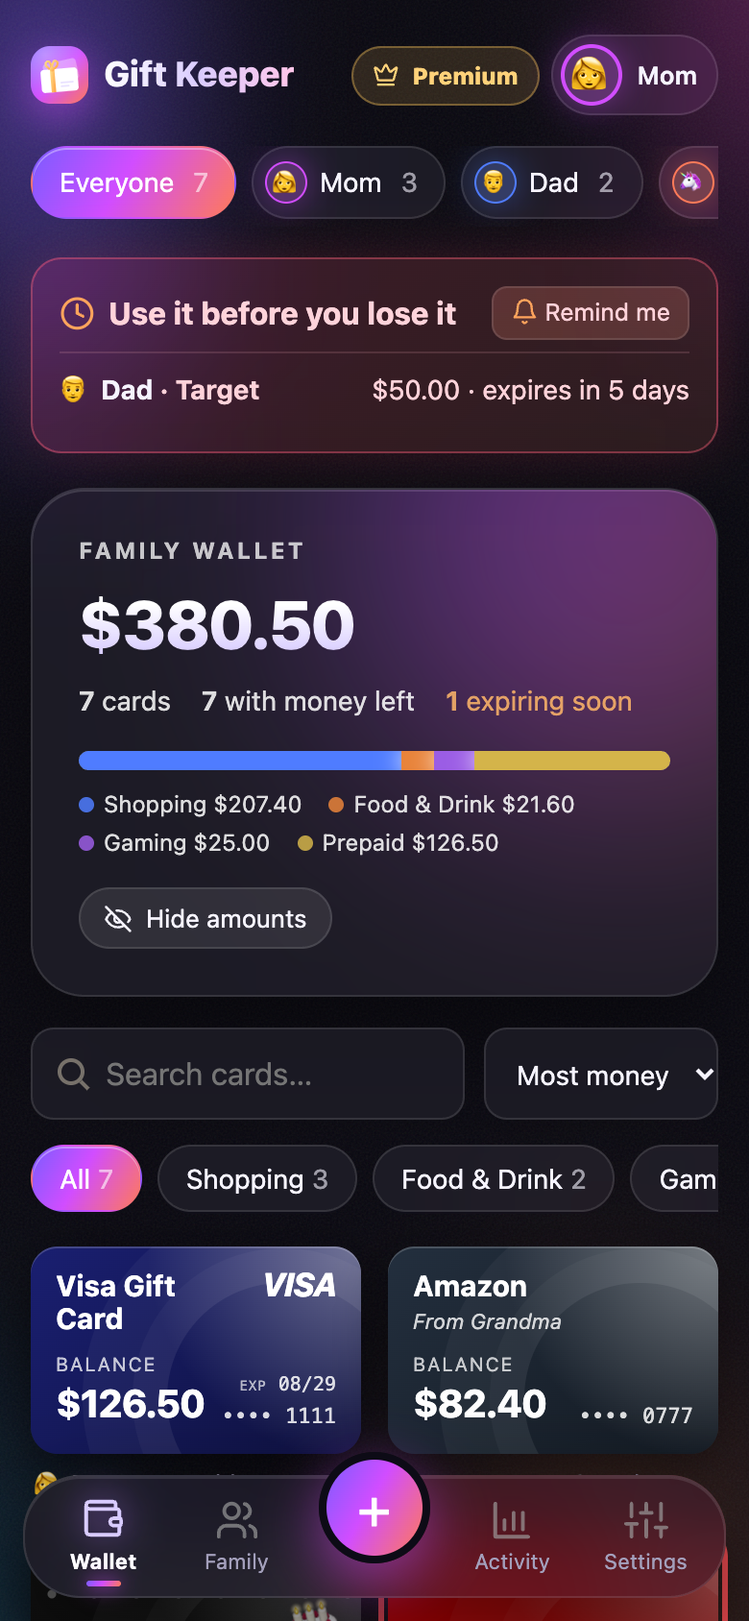
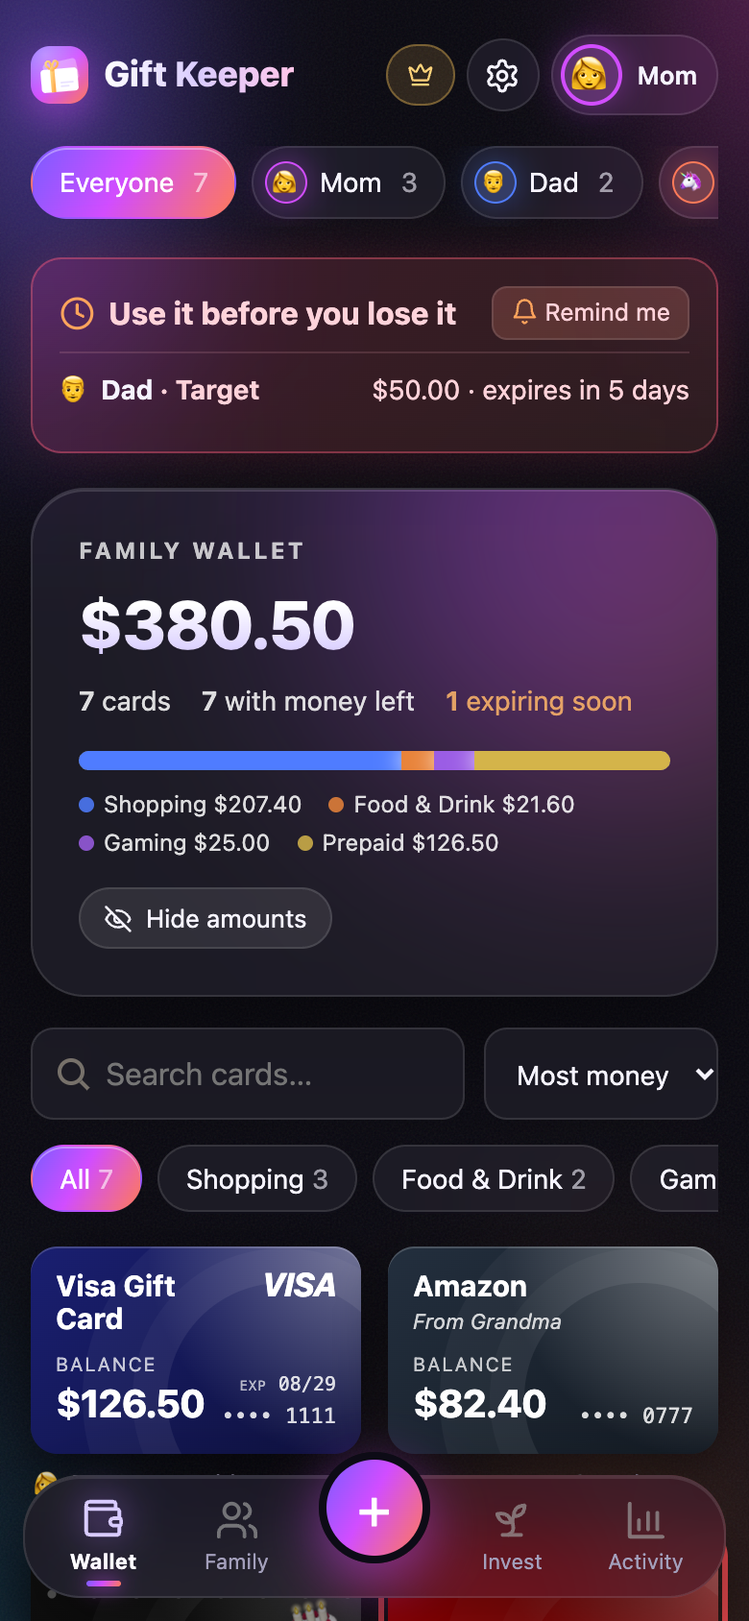
v0.12: Invest page — growth calculator, family money tree, idle cards, lessons; settings moved to header

Changed region(s): [[0.4615, 0.0308, 0.7385, 0.0924], [0.8, 0.9242, 0.9231, 0.9858], [0.6462, 0.9242, 0.7385, 0.9858]]

diff --git a/app.html b/app.html
@@ -893,6 +893,41 @@
   .tdot.gc { width: 14px; height: 14px; aspect-ratio: auto; padding: 0; border-radius: 4px; display: inline-block; box-shadow: inset 0 0 0 1px rgba(255,255,255,.25); }
   .tdot.gc::before, .tdot.gc::after { display: none; }
 
+  /* Invest page */
+  .gear-btn { width: 38px; height: 38px; border-radius: 50%; border: 1px solid var(--line); background: var(--surface); color: var(--ink);
+    display: grid; place-items: center; cursor: pointer; -webkit-backdrop-filter: var(--glass); backdrop-filter: var(--glass); flex: none; }
+  .gear-btn .i { width: 19px; height: 19px; }
+  .gear-btn.on { background: var(--grad); border-color: transparent; }
+  .invest-hero::after { background: linear-gradient(135deg, #22d3a0, #7c5cff); }
+  .invest-hero .label { text-transform: none; letter-spacing: 0; font-size: 15px; opacity: .85; }
+  .iv-split { display: flex; gap: 18px; flex-wrap: wrap; font-size: 14px; color: var(--muted); }
+  .iv-split b { color: var(--ink); }
+  .iv-split i { display: inline-block; width: 10px; height: 10px; border-radius: 3px; margin-right: 6px; }
+  .dot-put { background: #7c5cff; }
+  .dot-grow { background: #34e3a6; box-shadow: 0 0 10px #34e3a6; }
+  #ivChart svg { display: block; width: 100%; height: auto; margin-top: 14px; overflow: visible; }
+  #ivChart text { fill: var(--muted); font-size: 11px; font-family: inherit; }
+  .iv-form { padding: 6px 16px 14px; }
+  .iv-form input[type=range] { width: 100%; accent-color: #b07cff; margin: 6px 0 2px; }
+  .iv-form .seg button { font-size: 13px; padding: 9px 4px; }
+  .tree-row { display: flex; align-items: center; gap: 12px; padding: 12px 0; border-bottom: 1px solid var(--line); }
+  .tree-row:last-child { border-bottom: 0; }
+  .tree-row .info { flex: 1; min-width: 0; }
+  .tree-row .t { font-weight: 650; }
+  .tree-row .s { font-size: 13px; color: var(--muted); }
+  .tree-row .grow { text-align: right; font-weight: 800; font-family: var(--round); color: #4ef0b0; }
+  .tree-row .grow small { display: block; font-size: 11.5px; font-weight: 600; color: var(--muted); font-family: inherit; }
+  .faq-list { display: grid; gap: 8px; }
+  details.learn { border: 1px solid var(--line); background: var(--surface); border-radius: 16px; padding: 14px 16px; }
+  details.learn summary { cursor: pointer; font-weight: 650; list-style: none; display: flex; justify-content: space-between; gap: 10px; }
+  details.learn summary::after { content: "+"; color: var(--muted); font-size: 20px; line-height: 1; transition: rotate .2s; }
+  details.learn[open] summary::after { rotate: 45deg; }
+  details.learn p { color: var(--muted); margin: 10px 0 0; font-size: 14.5px; line-height: 1.55; }
+  .iv-note { font-size: 12.5px; color: var(--muted); text-align: center; margin: 18px 6px 0; line-height: 1.5; }
+  .pro-btn .pl { margin-left: 0; }
+  @media (max-width: 420px) { .pro-btn .pl { display: none; } .pro-btn { padding: 8px 10px; } }
+  body.privacy #ivTotal, body.privacy .iv-split b, body.privacy .tree-row .grow { filter: blur(9px); }
+
   /* Fixes kept from the redesign */
   .mini { white-space: nowrap; }
   .pm-buttons .btn:disabled { opacity: .55; }
@@ -906,7 +941,7 @@
 </style>
 </head>
 <body>
-<svg width="0" height="0" style="position:absolute" aria-hidden="true"><symbol id="i-wallet" viewBox="0 0 24 24"><path d="M19 7V4a1 1 0 0 0-1-1H5a2 2 0 0 0 0 4h15a1 1 0 0 1 1 1v4h-3a2 2 0 0 0 0 4h3a1 1 0 0 0 1-1v-2a1 1 0 0 0-1-1"/><path d="M3 5v14a2 2 0 0 0 2 2h15a1 1 0 0 0 1-1v-4"/></symbol><symbol id="i-users" viewBox="0 0 24 24"><path d="M16 21v-2a4 4 0 0 0-4-4H6a4 4 0 0 0-4 4v2"/><circle cx="9" cy="7" r="4"/><path d="M22 21v-2a4 4 0 0 0-3-3.87"/><path d="M16 3.13a4 4 0 0 1 0 7.75"/></symbol><symbol id="i-chart" viewBox="0 0 24 24"><path d="M3 3v18h18"/><path d="M8 17v-5"/><path d="M13 17V8"/><path d="M18 17v-9"/></symbol><symbol id="i-settings" viewBox="0 0 24 24"><path d="M4 21v-7M4 10V3M12 21v-9M12 8V3M20 21v-5M20 12V3M1 14h6M9 8h6M17 16h6"/></symbol><symbol id="i-plus" viewBox="0 0 24 24"><path d="M12 5v14M5 12h14"/></symbol><symbol id="i-x" viewBox="0 0 24 24"><path d="M18 6 6 18M6 6l12 12"/></symbol><symbol id="i-check" viewBox="0 0 24 24"><path d="M20 6 9 17l-5-5"/></symbol><symbol id="i-camera" viewBox="0 0 24 24"><path d="M14.5 4h-5L7 7H4a2 2 0 0 0-2 2v9a2 2 0 0 0 2 2h16a2 2 0 0 0 2-2V9a2 2 0 0 0-2-2h-3l-2.5-3z"/><circle cx="12" cy="13" r="3"/></symbol><symbol id="i-keyboard" viewBox="0 0 24 24"><rect x="2" y="6" width="20" height="12" rx="2"/><path d="M6 10h.01M10 10h.01M14 10h.01M18 10h.01M7 14h10"/></symbol><symbol id="i-crown" viewBox="0 0 24 24"><path d="M11.56 3.27a.5.5 0 0 1 .88 0l2.95 5.6a1 1 0 0 0 1.52.3l4.27-3.67a.5.5 0 0 1 .8.52l-2.83 10.25a1 1 0 0 1-.96.73H5.81a1 1 0 0 1-.96-.73L2.02 6.02a.5.5 0 0 1 .8-.52l4.27 3.67a1 1 0 0 0 1.52-.3z"/><path d="M5 21h14"/></symbol><symbol id="i-gem" viewBox="0 0 24 24"><path d="M6 3h12l4 6-10 13L2 9Z"/><path d="M11 3 8 9l4 13 4-13-3-6"/><path d="M2 9h20"/></symbol><symbol id="i-gift" viewBox="0 0 24 24"><rect x="3" y="8" width="18" height="4" rx="1"/><path d="M12 8v13"/><path d="M19 12v7a2 2 0 0 1-2 2H7a2 2 0 0 1-2-2v-7"/><path d="M7.5 8a2.5 2.5 0 0 1 0-5C10 3 12 8 12 8s2-5 4.5-5a2.5 2.5 0 0 1 0 5"/></symbol><symbol id="i-clock" viewBox="0 0 24 24"><circle cx="12" cy="12" r="10"/><path d="M12 6v6l4 2"/></symbol><symbol id="i-bell" viewBox="0 0 24 24"><path d="M6 8a6 6 0 0 1 12 0c0 7 3 9 3 9H3s3-2 3-9"/><path d="M10.3 21a1.94 1.94 0 0 0 3.4 0"/></symbol><symbol id="i-eye" viewBox="0 0 24 24"><path d="M2 12s3-7 10-7 10 7 10 7-3 7-10 7-10-7-10-7Z"/><circle cx="12" cy="12" r="3"/></symbol><symbol id="i-eye-off" viewBox="0 0 24 24"><path d="M9.88 9.88a3 3 0 1 0 4.24 4.24"/><path d="M10.73 5.08A10.4 10.4 0 0 1 12 5c7 0 10 7 10 7a13.2 13.2 0 0 1-1.67 2.68"/><path d="M6.61 6.61A13.5 13.5 0 0 0 2 12s3 7 10 7a9.7 9.7 0 0 0 5.39-1.61"/><path d="m2 2 20 20"/></symbol><symbol id="i-lock" viewBox="0 0 24 24"><rect x="3" y="11" width="18" height="11" rx="2"/><path d="M7 11V7a5 5 0 0 1 10 0v4"/></symbol><symbol id="i-sparkles" viewBox="0 0 24 24"><path d="M12 3l1.9 5.1L19 10l-5.1 1.9L12 17l-1.9-5.1L5 10l5.1-1.9z"/><path d="M19 15l.8 2.2L22 18l-2.2.8L19 21l-.8-2.2L16 18l2.2-.8z"/></symbol><symbol id="i-target" viewBox="0 0 24 24"><circle cx="12" cy="12" r="10"/><circle cx="12" cy="12" r="6"/><circle cx="12" cy="12" r="2"/></symbol><symbol id="i-table" viewBox="0 0 24 24"><rect x="3" y="3" width="18" height="18" rx="2"/><path d="M3 9h18M3 15h18M9 3v18"/></symbol><symbol id="i-download" viewBox="0 0 24 24"><path d="M21 15v4a2 2 0 0 1-2 2H5a2 2 0 0 1-2-2v-4"/><path d="m7 10 5 5 5-5"/><path d="M12 15V3"/></symbol><symbol id="i-upload" viewBox="0 0 24 24"><path d="M21 15v4a2 2 0 0 1-2 2H5a2 2 0 0 1-2-2v-4"/><path d="m17 8-5-5-5 5"/><path d="M12 3v12"/></symbol><symbol id="i-trash" viewBox="0 0 24 24"><path d="M3 6h18"/><path d="M19 6v14a2 2 0 0 1-2 2H7a2 2 0 0 1-2-2V6"/><path d="M8 6V4a2 2 0 0 1 2-2h4a2 2 0 0 1 2 2v2"/></symbol><symbol id="i-pencil" viewBox="0 0 24 24"><path d="M17 3a2.85 2.85 0 1 1 4 4L7.5 20.5 2 22l1.5-5.5Z"/></symbol><symbol id="i-scan" viewBox="0 0 24 24"><path d="M3 7V5a2 2 0 0 1 2-2h2M17 3h2a2 2 0 0 1 2 2v2M21 17v2a2 2 0 0 1-2 2h-2M7 21H5a2 2 0 0 1-2-2v-2"/><path d="M7 8v8M10 8v8M14 8v8M17 8v8"/></symbol><symbol id="i-calendar" viewBox="0 0 24 24"><rect x="3" y="4" width="18" height="18" rx="2"/><path d="M16 2v4M8 2v4M3 10h18"/></symbol><symbol id="i-alert" viewBox="0 0 24 24"><path d="m21.73 18-8-14a2 2 0 0 0-3.48 0l-8 14A2 2 0 0 0 4 21h16a2 2 0 0 0 1.73-3"/><path d="M12 9v4M12 17h.01"/></symbol><symbol id="i-ban" viewBox="0 0 24 24"><circle cx="12" cy="12" r="10"/><path d="m4.9 4.9 14.2 14.2"/></symbol><symbol id="i-store" viewBox="0 0 24 24"><path d="M3 9l1.5-5h15L21 9"/><path d="M4 9v11h16V9"/><path d="M3 9h18"/><path d="M9 20v-6h6v6"/></symbol><symbol id="i-card" viewBox="0 0 24 24"><rect x="2" y="5" width="20" height="14" rx="2"/><path d="M2 10h20"/></symbol><symbol id="i-shield" viewBox="0 0 24 24"><path d="M12 22s8-4 8-10V5l-8-3-8 3v7c0 6 8 10 8 10z"/></symbol><symbol id="i-coins" viewBox="0 0 24 24"><circle cx="8" cy="8" r="6"/><path d="M18.09 10.37A6 6 0 1 1 10.34 18"/><path d="M7 6h1v4"/></symbol><symbol id="i-hourglass" viewBox="0 0 24 24"><path d="M5 22h14M5 2h14M17 22v-4.17a2 2 0 0 0-.59-1.42L12 12l-4.41 4.41A2 2 0 0 0 7 17.83V22M7 2v4.17a2 2 0 0 0 .59 1.42L12 12l4.41-4.41A2 2 0 0 0 17 6.17V2"/></symbol><symbol id="i-heart" viewBox="0 0 24 24"><path d="M19 14c1.49-1.46 3-3.21 3-5.5A5.5 5.5 0 0 0 16.5 3c-1.76 0-3 .5-4.5 2-1.5-1.5-2.74-2-4.5-2A5.5 5.5 0 0 0 2 8.5c0 2.3 1.5 4.05 3 5.5l7 7Z"/></symbol><symbol id="i-bag" viewBox="0 0 24 24"><path d="M6 2 3 6v14a2 2 0 0 0 2 2h14a2 2 0 0 0 2-2V6l-3-4Z"/><path d="M3 6h18"/><path d="M16 10a4 4 0 0 1-8 0"/></symbol><symbol id="i-trophy" viewBox="0 0 24 24"><path d="M6 9H4.5a2.5 2.5 0 0 1 0-5H6M18 9h1.5a2.5 2.5 0 0 0 0-5H18M4 22h16M10 14.66V17c0 .55-.47.98-.97 1.21C7.85 18.75 7 20.24 7 22M14 14.66V17c0 .55.47.98.97 1.21C16.15 18.75 17 20.24 17 22"/><path d="M18 2H6v7a6 6 0 0 0 12 0V2Z"/></symbol><symbol id="i-user" viewBox="0 0 24 24"><circle cx="12" cy="8" r="4"/><path d="M4 21a8 8 0 0 1 16 0"/></symbol><symbol id="i-cake" viewBox="0 0 24 24"><path d="M20 21v-8a2 2 0 0 0-2-2H6a2 2 0 0 0-2 2v8"/><path d="M4 16s.5-1 2-1 2.5 2 4 2 2.5-2 4-2 2.5 2 4 2 2-1 2-1"/><path d="M2 21h20M7 8v3M12 8v3M17 8v3"/></symbol><symbol id="i-snow" viewBox="0 0 24 24"><path d="M12 2v20M2 12h20M4.9 4.9l14.2 14.2M19.1 4.9 4.9 19.1"/></symbol><symbol id="i-book" viewBox="0 0 24 24"><path d="M4 19.5v-15A2.5 2.5 0 0 1 6.5 2H20v20H6.5a2.5 2.5 0 0 1 0-5H20"/></symbol><symbol id="i-mail" viewBox="0 0 24 24"><rect x="2" y="4" width="20" height="16" rx="2"/><path d="m22 7-10 5L2 7"/></symbol><symbol id="i-cap" viewBox="0 0 24 24"><path d="M22 10 12 5 2 10l10 5 10-5z"/><path d="M6 12v5c3 3 9 3 12 0v-5"/></symbol><symbol id="i-trend" viewBox="0 0 24 24"><path d="m22 7-8.5 8.5-5-5L2 17"/><path d="M16 7h6v6"/></symbol><symbol id="i-palette" viewBox="0 0 24 24"><circle cx="13.5" cy="6.5" r="1.5"/><circle cx="17.5" cy="10.5" r="1.5"/><circle cx="8.5" cy="7.5" r="1.5"/><circle cx="6.5" cy="12.5" r="1.5"/><path d="M12 2C6.5 2 2 6.5 2 12s4.5 10 10 10c.93 0 1.65-.75 1.65-1.69 0-.44-.18-.84-.44-1.13-.29-.29-.44-.65-.44-1.13a1.64 1.64 0 0 1 1.67-1.67h2c3.05 0 5.56-2.5 5.56-5.56C22 6.02 17.5 2 12 2z"/></symbol></svg>
+<svg width="0" height="0" style="position:absolute" aria-hidden="true"><symbol id="i-sprout" viewBox="0 0 24 24"><path d="M7 20h10"/><path d="M10 20c5.5-2.5.8-6.4 3-10"/><path d="M9.5 9.4c1.1.8 1.8 2.2 2.3 3.7-2 .4-3.5.4-4.8-.3-1.2-.6-2.3-1.9-3-4.2 2.8-.5 4.4 0 5.5.8z"/><path d="M14.1 6a7 7 0 0 0-1.1 4c1.9-.1 3.3-.6 4.3-1.4 1-1 1.6-2.3 1.7-4.6-2.7.1-4 1-4.9 2z"/></symbol><symbol id="i-gear" viewBox="0 0 24 24"><path d="M12.22 2h-.44a2 2 0 0 0-2 2v.18a2 2 0 0 1-1 1.73l-.43.25a2 2 0 0 1-2 0l-.15-.08a2 2 0 0 0-2.73.73l-.22.38a2 2 0 0 0 .73 2.73l.15.1a2 2 0 0 1 1 1.72v.51a2 2 0 0 1-1 1.74l-.15.09a2 2 0 0 0-.73 2.73l.22.38a2 2 0 0 0 2.73.73l.15-.08a2 2 0 0 1 2 0l.43.25a2 2 0 0 1 1 1.73V20a2 2 0 0 0 2 2h.44a2 2 0 0 0 2-2v-.18a2 2 0 0 1 1-1.73l.43-.25a2 2 0 0 1 2 0l.15.08a2 2 0 0 0 2.73-.73l.22-.39a2 2 0 0 0-.73-2.73l-.15-.08a2 2 0 0 1-1-1.74v-.5a2 2 0 0 1 1-1.74l.15-.09a2 2 0 0 0 .73-2.73l-.22-.38a2 2 0 0 0-2.73-.73l-.15.08a2 2 0 0 1-2 0l-.43-.25a2 2 0 0 1-1-1.73V4a2 2 0 0 0-2-2z"/><circle cx="12" cy="12" r="3"/></symbol><symbol id="i-wallet" viewBox="0 0 24 24"><path d="M19 7V4a1 1 0 0 0-1-1H5a2 2 0 0 0 0 4h15a1 1 0 0 1 1 1v4h-3a2 2 0 0 0 0 4h3a1 1 0 0 0 1-1v-2a1 1 0 0 0-1-1"/><path d="M3 5v14a2 2 0 0 0 2 2h15a1 1 0 0 0 1-1v-4"/></symbol><symbol id="i-users" viewBox="0 0 24 24"><path d="M16 21v-2a4 4 0 0 0-4-4H6a4 4 0 0 0-4 4v2"/><circle cx="9" cy="7" r="4"/><path d="M22 21v-2a4 4 0 0 0-3-3.87"/><path d="M16 3.13a4 4 0 0 1 0 7.75"/></symbol><symbol id="i-chart" viewBox="0 0 24 24"><path d="M3 3v18h18"/><path d="M8 17v-5"/><path d="M13 17V8"/><path d="M18 17v-9"/></symbol><symbol id="i-settings" viewBox="0 0 24 24"><path d="M4 21v-7M4 10V3M12 21v-9M12 8V3M20 21v-5M20 12V3M1 14h6M9 8h6M17 16h6"/></symbol><symbol id="i-plus" viewBox="0 0 24 24"><path d="M12 5v14M5 12h14"/></symbol><symbol id="i-x" viewBox="0 0 24 24"><path d="M18 6 6 18M6 6l12 12"/></symbol><symbol id="i-check" viewBox="0 0 24 24"><path d="M20 6 9 17l-5-5"/></symbol><symbol id="i-camera" viewBox="0 0 24 24"><path d="M14.5 4h-5L7 7H4a2 2 0 0 0-2 2v9a2 2 0 0 0 2 2h16a2 2 0 0 0 2-2V9a2 2 0 0 0-2-2h-3l-2.5-3z"/><circle cx="12" cy="13" r="3"/></symbol><symbol id="i-keyboard" viewBox="0 0 24 24"><rect x="2" y="6" width="20" height="12" rx="2"/><path d="M6 10h.01M10 10h.01M14 10h.01M18 10h.01M7 14h10"/></symbol><symbol id="i-crown" viewBox="0 0 24 24"><path d="M11.56 3.27a.5.5 0 0 1 .88 0l2.95 5.6a1 1 0 0 0 1.52.3l4.27-3.67a.5.5 0 0 1 .8.52l-2.83 10.25a1 1 0 0 1-.96.73H5.81a1 1 0 0 1-.96-.73L2.02 6.02a.5.5 0 0 1 .8-.52l4.27 3.67a1 1 0 0 0 1.52-.3z"/><path d="M5 21h14"/></symbol><symbol id="i-gem" viewBox="0 0 24 24"><path d="M6 3h12l4 6-10 13L2 9Z"/><path d="M11 3 8 9l4 13 4-13-3-6"/><path d="M2 9h20"/></symbol><symbol id="i-gift" viewBox="0 0 24 24"><rect x="3" y="8" width="18" height="4" rx="1"/><path d="M12 8v13"/><path d="M19 12v7a2 2 0 0 1-2 2H7a2 2 0 0 1-2-2v-7"/><path d="M7.5 8a2.5 2.5 0 0 1 0-5C10 3 12 8 12 8s2-5 4.5-5a2.5 2.5 0 0 1 0 5"/></symbol><symbol id="i-clock" viewBox="0 0 24 24"><circle cx="12" cy="12" r="10"/><path d="M12 6v6l4 2"/></symbol><symbol id="i-bell" viewBox="0 0 24 24"><path d="M6 8a6 6 0 0 1 12 0c0 7 3 9 3 9H3s3-2 3-9"/><path d="M10.3 21a1.94 1.94 0 0 0 3.4 0"/></symbol><symbol id="i-eye" viewBox="0 0 24 24"><path d="M2 12s3-7 10-7 10 7 10 7-3 7-10 7-10-7-10-7Z"/><circle cx="12" cy="12" r="3"/></symbol><symbol id="i-eye-off" viewBox="0 0 24 24"><path d="M9.88 9.88a3 3 0 1 0 4.24 4.24"/><path d="M10.73 5.08A10.4 10.4 0 0 1 12 5c7 0 10 7 10 7a13.2 13.2 0 0 1-1.67 2.68"/><path d="M6.61 6.61A13.5 13.5 0 0 0 2 12s3 7 10 7a9.7 9.7 0 0 0 5.39-1.61"/><path d="m2 2 20 20"/></symbol><symbol id="i-lock" viewBox="0 0 24 24"><rect x="3" y="11" width="18" height="11" rx="2"/><path d="M7 11V7a5 5 0 0 1 10 0v4"/></symbol><symbol id="i-sparkles" viewBox="0 0 24 24"><path d="M12 3l1.9 5.1L19 10l-5.1 1.9L12 17l-1.9-5.1L5 10l5.1-1.9z"/><path d="M19 15l.8 2.2L22 18l-2.2.8L19 21l-.8-2.2L16 18l2.2-.8z"/></symbol><symbol id="i-target" viewBox="0 0 24 24"><circle cx="12" cy="12" r="10"/><circle cx="12" cy="12" r="6"/><circle cx="12" cy="12" r="2"/></symbol><symbol id="i-table" viewBox="0 0 24 24"><rect x="3" y="3" width="18" height="18" rx="2"/><path d="M3 9h18M3 15h18M9 3v18"/></symbol><symbol id="i-download" viewBox="0 0 24 24"><path d="M21 15v4a2 2 0 0 1-2 2H5a2 2 0 0 1-2-2v-4"/><path d="m7 10 5 5 5-5"/><path d="M12 15V3"/></symbol><symbol id="i-upload" viewBox="0 0 24 24"><path d="M21 15v4a2 2 0 0 1-2 2H5a2 2 0 0 1-2-2v-4"/><path d="m17 8-5-5-5 5"/><path d="M12 3v12"/></symbol><symbol id="i-trash" viewBox="0 0 24 24"><path d="M3 6h18"/><path d="M19 6v14a2 2 0 0 1-2 2H7a2 2 0 0 1-2-2V6"/><path d="M8 6V4a2 2 0 0 1 2-2h4a2 2 0 0 1 2 2v2"/></symbol><symbol id="i-pencil" viewBox="0 0 24 24"><path d="M17 3a2.85 2.85 0 1 1 4 4L7.5 20.5 2 22l1.5-5.5Z"/></symbol><symbol id="i-scan" viewBox="0 0 24 24"><path d="M3 7V5a2 2 0 0 1 2-2h2M17 3h2a2 2 0 0 1 2 2v2M21 17v2a2 2 0 0 1-2 2h-2M7 21H5a2 2 0 0 1-2-2v-2"/><path d="M7 8v8M10 8v8M14 8v8M17 8v8"/></symbol><symbol id="i-calendar" viewBox="0 0 24 24"><rect x="3" y="4" width="18" height="18" rx="2"/><path d="M16 2v4M8 2v4M3 10h18"/></symbol><symbol id="i-alert" viewBox="0 0 24 24"><path d="m21.73 18-8-14a2 2 0 0 0-3.48 0l-8 14A2 2 0 0 0 4 21h16a2 2 0 0 0 1.73-3"/><path d="M12 9v4M12 17h.01"/></symbol><symbol id="i-ban" viewBox="0 0 24 24"><circle cx="12" cy="12" r="10"/><path d="m4.9 4.9 14.2 14.2"/></symbol><symbol id="i-store" viewBox="0 0 24 24"><path d="M3 9l1.5-5h15L21 9"/><path d="M4 9v11h16V9"/><path d="M3 9h18"/><path d="M9 20v-6h6v6"/></symbol><symbol id="i-card" viewBox="0 0 24 24"><rect x="2" y="5" width="20" height="14" rx="2"/><path d="M2 10h20"/></symbol><symbol id="i-shield" viewBox="0 0 24 24"><path d="M12 22s8-4 8-10V5l-8-3-8 3v7c0 6 8 10 8 10z"/></symbol><symbol id="i-coins" viewBox="0 0 24 24"><circle cx="8" cy="8" r="6"/><path d="M18.09 10.37A6 6 0 1 1 10.34 18"/><path d="M7 6h1v4"/></symbol><symbol id="i-hourglass" viewBox="0 0 24 24"><path d="M5 22h14M5 2h14M17 22v-4.17a2 2 0 0 0-.59-1.42L12 12l-4.41 4.41A2 2 0 0 0 7 17.83V22M7 2v4.17a2 2 0 0 0 .59 1.42L12 12l4.41-4.41A2 2 0 0 0 17 6.17V2"/></symbol><symbol id="i-heart" viewBox="0 0 24 24"><path d="M19 14c1.49-1.46 3-3.21 3-5.5A5.5 5.5 0 0 0 16.5 3c-1.76 0-3 .5-4.5 2-1.5-1.5-2.74-2-4.5-2A5.5 5.5 0 0 0 2 8.5c0 2.3 1.5 4.05 3 5.5l7 7Z"/></symbol><symbol id="i-bag" viewBox="0 0 24 24"><path d="M6 2 3 6v14a2 2 0 0 0 2 2h14a2 2 0 0 0 2-2V6l-3-4Z"/><path d="M3 6h18"/><path d="M16 10a4 4 0 0 1-8 0"/></symbol><symbol id="i-trophy" viewBox="0 0 24 24"><path d="M6 9H4.5a2.5 2.5 0 0 1 0-5H6M18 9h1.5a2.5 2.5 0 0 0 0-5H18M4 22h16M10 14.66V17c0 .55-.47.98-.97 1.21C7.85 18.75 7 20.24 7 22M14 14.66V17c0 .55.47.98.97 1.21C16.15 18.75 17 20.24 17 22"/><path d="M18 2H6v7a6 6 0 0 0 12 0V2Z"/></symbol><symbol id="i-user" viewBox="0 0 24 24"><circle cx="12" cy="8" r="4"/><path d="M4 21a8 8 0 0 1 16 0"/></symbol><symbol id="i-cake" viewBox="0 0 24 24"><path d="M20 21v-8a2 2 0 0 0-2-2H6a2 2 0 0 0-2 2v8"/><path d="M4 16s.5-1 2-1 2.5 2 4 2 2.5-2 4-2 2.5 2 4 2 2-1 2-1"/><path d="M2 21h20M7 8v3M12 8v3M17 8v3"/></symbol><symbol id="i-snow" viewBox="0 0 24 24"><path d="M12 2v20M2 12h20M4.9 4.9l14.2 14.2M19.1 4.9 4.9 19.1"/></symbol><symbol id="i-book" viewBox="0 0 24 24"><path d="M4 19.5v-15A2.5 2.5 0 0 1 6.5 2H20v20H6.5a2.5 2.5 0 0 1 0-5H20"/></symbol><symbol id="i-mail" viewBox="0 0 24 24"><rect x="2" y="4" width="20" height="16" rx="2"/><path d="m22 7-10 5L2 7"/></symbol><symbol id="i-cap" viewBox="0 0 24 24"><path d="M22 10 12 5 2 10l10 5 10-5z"/><path d="M6 12v5c3 3 9 3 12 0v-5"/></symbol><symbol id="i-trend" viewBox="0 0 24 24"><path d="m22 7-8.5 8.5-5-5L2 17"/><path d="M16 7h6v6"/></symbol><symbol id="i-palette" viewBox="0 0 24 24"><circle cx="13.5" cy="6.5" r="1.5"/><circle cx="17.5" cy="10.5" r="1.5"/><circle cx="8.5" cy="7.5" r="1.5"/><circle cx="6.5" cy="12.5" r="1.5"/><path d="M12 2C6.5 2 2 6.5 2 12s4.5 10 10 10c.93 0 1.65-.75 1.65-1.69 0-.44-.18-.84-.44-1.13-.29-.29-.44-.65-.44-1.13a1.64 1.64 0 0 1 1.67-1.67h2c3.05 0 5.56-2.5 5.56-5.56C22 6.02 17.5 2 12 2z"/></symbol></svg>
 <div class="app">
   <header>
     <div class="logo"><svg class="mark" viewBox="0 0 512 512" aria-hidden="true">
@@ -945,6 +980,7 @@
     </svg><span class="logo-text">Gift Keeper</span></div>
     <div class="header-right">
       <button class="pro-btn" id="proBtn"></button>
+      <button class="gear-btn" id="gearBtn" aria-label="Settings"><svg class="i i-gear" aria-hidden="true"><use href="#i-gear"/></svg></button>
       <button class="me-btn" id="meBtn" aria-label="Switch person"></button>
     </div>
   </header>
@@ -1014,6 +1050,55 @@
     <div class="list-panel" id="eventList"></div>
   </section>
 
+  <section class="page" id="page-invest" hidden>
+    <h1 class="page-title">Invest</h1>
+    <p class="page-sub">See how money can grow when you save and invest it over time.</p>
+
+    <section class="hero invest-hero">
+      <div class="label">In <span id="ivYearsLabel">10 years</span> you could have</div>
+      <div class="amount" id="ivTotal">$0.00</div>
+      <div class="iv-split">
+        <span><i class="dot-put"></i>You put in <b id="ivPut">$0</b></span>
+        <span><i class="dot-grow"></i>Growth <b id="ivGrow">$0</b></span>
+      </div>
+      <div id="ivChart"></div>
+    </section>
+
+    <div class="section-title">Try it</div>
+    <div class="list-panel iv-form">
+      <div class="row">
+        <div><label for="ivStart">Start with</label><input id="ivStart" type="number" min="0" step="1" inputmode="decimal"></div>
+        <div><label for="ivMonthly">Add every month</label><input id="ivMonthly" type="number" min="0" step="1" inputmode="decimal"></div>
+      </div>
+      <label for="ivYears">How long: <b id="ivYearsOut"></b></label>
+      <input id="ivYears" type="range" min="1" max="40" step="1">
+      <label>Example growth rate</label>
+      <div class="seg" id="ivRate">
+        <button type="button" data-rate="4">Savings · 4%</button>
+        <button type="button" data-rate="5">Balanced · 5%</button>
+        <button type="button" data-rate="7">Stock fund · 7%</button>
+      </div>
+      <button type="button" class="mini" id="ivUseWallet" style="margin:12px 0 4px"></button>
+    </div>
+
+    <div class="section-title"><svg class="i i-sprout" aria-hidden="true"><use href="#i-sprout"/></svg> Family money tree</div>
+    <div class="list-panel" id="ivFamily"></div>
+
+    <div class="section-title"><svg class="i i-hourglass" aria-hidden="true"><use href="#i-hourglass"/></svg> Money sitting still</div>
+    <div class="list-panel" id="ivIdle"></div>
+
+    <div class="section-title"><svg class="i i-book" aria-hidden="true"><use href="#i-book"/></svg> Learn the basics</div>
+    <div class="faq-list">
+      <details class="learn"><summary>What is investing?</summary><p>Investing means putting money into something that can grow — like a piece of a company (a stock) — instead of keeping it as cash. It can earn more than a savings account over many years, but its value goes up and down, and you can lose money.</p></details>
+      <details class="learn"><summary>What is compound growth?</summary><p>When your money earns money, and then <i>that</i> money earns money too. The longer you leave it, the faster it grows — that’s why the chart above curves upward. Starting early matters more than starting big.</p></details>
+      <details class="learn"><summary>Savings account vs. investing</summary><p>A savings account is safe and you can take money out any time, but it grows slowly. Investing can grow faster over many years, but it’s riskier. Many families keep emergency money in savings and invest money they won’t need for 5+ years.</p></details>
+      <details class="learn"><summary>What is an index fund?</summary><p>One fund that owns small pieces of many companies at once (for example, the 500 biggest U.S. companies). Because it’s spread out, one company doing badly hurts less. Many beginners start here because fees are often low.</p></details>
+      <details class="learn"><summary>Can kids invest?</summary><p>Kids can’t open their own brokerage account, but a parent can open a custodial account for them, and kids with earned income may be able to have a custodial Roth IRA. Rules differ, so check with the provider or a financial professional.</p></details>
+      <details class="learn"><summary>Can I invest gift card money?</summary><p>Not directly — gift cards only work at their store. But if you use a gift card for something you were going to buy anyway, you can move the cash you saved into savings or investments. Gift Keeper helps you spot that money.</p></details>
+    </div>
+    <p class="iv-note">For learning only — this isn’t financial advice. The growth rates are examples; real returns change every year and can be negative.</p>
+  </section>
+
   <section class="page" id="page-settings" hidden>
     <h1 class="page-title">Settings</h1>
     <div class="section-title">Profile</div>
@@ -1035,7 +1120,7 @@
       <div class="list-panel"><button class="setting danger" id="wipeBtn"><svg class="i i-trash" aria-hidden="true"><use href="#i-trash"/></svg>Delete all data</button></div>
     </div>
     <p class="page-sub" style="text-align:center;margin-top:26px;font-size:13px">
-      Gift Keeper v0.11 · Everything is saved only on this device.
+      Gift Keeper v0.12 · Everything is saved only on this device.
     </p>
   </section>
 </div>
@@ -1045,8 +1130,8 @@
     <button class="tab on" data-page="wallet"><span class="ic"><svg class="i i-wallet" aria-hidden="true"><use href="#i-wallet"/></svg></span>Wallet</button>
     <button class="tab" data-page="family"><span class="ic"><svg class="i i-users" aria-hidden="true"><use href="#i-users"/></svg></span>Family</button>
     <button class="tab-add" id="addBtn" aria-label="Add card">+</button>
+    <button class="tab" data-page="invest"><span class="ic"><svg class="i i-sprout" aria-hidden="true"><use href="#i-sprout"/></svg></span>Invest</button>
     <button class="tab" data-page="activity"><span class="ic"><svg class="i i-chart" aria-hidden="true"><use href="#i-chart"/></svg></span>Activity</button>
-    <button class="tab" data-page="settings"><span class="ic"><svg class="i i-settings" aria-hidden="true"><use href="#i-settings"/></svg></span>Settings</button>
   </div>
 </nav>
 <div class="toast" id="toast"></div>
@@ -1771,12 +1856,13 @@ function render() {
   renderList();
   renderFamily();
   renderActivity();
+  renderInvest();
   renderSettings();
 }
 
 function renderHeader() {
   $('meBtn').innerHTML = `${avatar(me())}${esc(me().name)}`;
-  $('proBtn').innerHTML = isUltra() ? `${ic('gem')} Ultra` : isPremium() ? `${ic('crown')} Premium` : `${ic('crown')} Upgrade`;
+  $('proBtn').innerHTML = isUltra() ? `${ic('gem')}<span class="pl">Ultra</span>` : isPremium() ? `${ic('crown')}<span class="pl">Premium</span>` : `${ic('crown')}<span class="pl">Upgrade</span>`;
   $('proBtn').classList.toggle('on', isPremium() && !isUltra());
   $('proBtn').classList.toggle('ultra', isUltra());
   $('scanTop').innerHTML = ic('camera') + ' Scan card to fill everything' + (isPremium() ? '' : '<span class="lock">PREMIUM</span>');
@@ -1815,6 +1901,7 @@ function showPage(p) {
   void el.offsetWidth;                    // restart the page entrance animation
   el.classList.add('enter');
   document.querySelectorAll('.tab').forEach(t => t.classList.toggle('on', t.dataset.page === p));
+  $('gearBtn').classList.toggle('on', p === 'settings');
   renderScope();
   window.scrollTo(0, 0);
 }
@@ -3120,6 +3207,94 @@ function exportCsv() {
   URL.revokeObjectURL(a.href);
   toast('Spreadsheet downloaded');
 }
+
+// ---------- Invest page ----------
+// A learning tool: shows how money grows with monthly saving and compound growth.
+// Month-by-month: balance grows by rate/12, then the monthly amount is added.
+function growth(start, monthly, years, rate) {
+  const points = [{ year: 0, total: start, put: start }];
+  let total = start, put = start;
+  for (let m = 1; m <= years * 12; m++) {
+    total = total * (1 + rate / 100 / 12) + monthly;
+    put += monthly;
+    if (m % 12 === 0) points.push({ year: m / 12, total, put });
+  }
+  return points;
+}
+const ivSettings = () => ({ start: 100, monthly: 20, years: 10, rate: 7, ...(settings.invest || {}) });
+
+function growthChart(points) {
+  const W = 320, H = 150, max = Math.max(...points.map(p => p.total)) || 1, n = points.length - 1 || 1;
+  const x = i => (i / n) * W, y = v => H - (v / max) * (H - 10);
+  const line = key => points.map((p, i) => `${i ? 'L' : 'M'}${x(i).toFixed(1)} ${y(p[key]).toFixed(1)}`).join(' ');
+  const area = key => `${line(key)} L${W} ${H} L0 ${H} Z`;
+  const last = points.at(-1), mid = points.at(Math.floor(n / 2));
+  return `<svg viewBox="0 0 ${W} ${H + 20}" role="img" aria-label="Growth chart">
+    <defs>
+      <linearGradient id="ivGradGrow" x1="0" y1="0" x2="0" y2="1"><stop offset="0" stop-color="#34e3a6" stop-opacity=".55"/><stop offset="1" stop-color="#34e3a6" stop-opacity=".05"/></linearGradient>
+      <linearGradient id="ivGradPut" x1="0" y1="0" x2="0" y2="1"><stop offset="0" stop-color="#7c5cff" stop-opacity=".8"/><stop offset="1" stop-color="#7c5cff" stop-opacity=".25"/></linearGradient>
+    </defs>
+    <path d="${area('total')}" fill="url(#ivGradGrow)"/>
+    <path d="${area('put')}" fill="url(#ivGradPut)"/>
+    <path d="${line('total')}" fill="none" stroke="#34e3a6" stroke-width="2.5" stroke-linecap="round"/>
+    <circle cx="${x(n)}" cy="${y(last.total)}" r="4.5" fill="#34e3a6"/>
+    <text x="0" y="${H + 16}">Now</text>
+    <text x="${x(Math.floor(n / 2))}" y="${H + 16}" text-anchor="middle">Year ${mid.year}</text>
+    <text x="${W}" y="${H + 16}" text-anchor="end">Year ${last.year}</text>
+  </svg>`;
+}
+
+function renderInvest() {
+  const v = ivSettings();
+  const points = growth(v.start, v.monthly, v.years, v.rate), last = points.at(-1);
+  if (document.activeElement !== $('ivStart')) $('ivStart').value = v.start;
+  if (document.activeElement !== $('ivMonthly')) $('ivMonthly').value = v.monthly;
+  $('ivYears').value = v.years;
+  $('ivYearsOut').textContent = `${v.years} year${v.years === 1 ? '' : 's'}`;
+  $('ivYearsLabel').textContent = `${v.years} year${v.years === 1 ? '' : 's'}`;
+  document.querySelectorAll('#ivRate button').forEach(b => b.classList.toggle('on', +b.dataset.rate === v.rate));
+  countUp($('ivTotal'), last.total);
+  $('ivPut').textContent = money(last.put);
+  $('ivGrow').textContent = money(last.total - last.put);
+  $('ivChart').innerHTML = growthChart(points);
+  const wallet = balanceOf(scopedCards());
+  $('ivUseWallet').innerHTML = `${ic('wallet')} Start with my gift card total (${money(wallet)})`;
+
+  // Family money tree: what each person's gift card money would become if the same amount were saved and invested
+  const people = isParent() ? family.members : [me()];
+  $('ivFamily').innerHTML = !isPremium()
+    ? `<div class="empty-state" style="padding:18px 6px">See what each kid’s gift card money could grow into by the time they’re grown up. <span class="lock">PREMIUM</span></div>`
+    : people.map(m => {
+        const have = balanceOf(cards.filter(c => c.owner === m.id));
+        const later = growth(have, 0, 10, v.rate).at(-1).total;
+        return `<div class="tree-row">${avatar(m, 'lg')}
+          <span class="info"><div class="t">${esc(m.name)}</div><div class="s">${money(have)} on gift cards today</div></span>
+          <span class="grow">${money(later)}<small>in 10 years at ${v.rate}%</small></span></div>`;
+      }).join('');
+
+  // Cards nobody has touched in 2+ months: use them, then save the cash you didn't spend
+  const lastUsed = c => (c.history || []).reduce((d, h) => h.date > d ? h.date : d, c.added || '');
+  const idle = scopedCards().filter(c => c.balance > 0 && daysLeft(lastUsed(c)) <= -60).sort((a, b) => b.balance - a.balance);
+  $('ivIdle').innerHTML = idle.length
+    ? `<div class="tree-row"><span class="info"><div class="s">Use these on things you’d buy anyway, then move the cash you didn’t spend into savings. ${money(balanceOf(idle))} could be growing.</div></span></div>` +
+      idle.slice(0, 5).map(c => `<button class="event" data-id="${c.id}">
+        <span class="dot" style="background:${colorFor(c)}">${esc(displayName(c)[0] || '?')}</span>
+        <span class="info"><div class="t">${esc(displayName(c))}</div><div class="s">${ownerTag(c)}Last used ${fmtDate(lastUsed(c))}</div></span>
+        <span class="amt">${money(c.balance)}</span></button>`).join('')
+    : '<div class="empty-state" style="padding:18px 6px">No sleepy cards — every card was used in the last 2 months.</div>';
+}
+function saveInvest(change) {
+  settings.invest = { ...ivSettings(), ...change };
+  saveSettings();
+  renderInvest();
+}
+$('ivStart').oninput = () => saveInvest({ start: Math.max(0, Number($('ivStart').value) || 0) });
+$('ivMonthly').oninput = () => saveInvest({ monthly: Math.max(0, Number($('ivMonthly').value) || 0) });
+$('ivYears').oninput = () => saveInvest({ years: Number($('ivYears').value) });
+$('ivRate').onclick = e => { const b = e.target.closest('[data-rate]'); if (b) saveInvest({ rate: Number(b.dataset.rate) }); };
+$('ivUseWallet').onclick = () => saveInvest({ start: Math.round(balanceOf(scopedCards())) });
+$('ivIdle').onclick = e => { const b = e.target.closest('.event'); if (b) showDetail(b.dataset.id); };
+$('gearBtn').onclick = () => { showPage('settings'); render(); };
 
 // ---------- Settings page ----------
 function renderSettings() {

diff --git a/index.html b/index.html
@@ -229,6 +229,7 @@
       <div class="feature reveal"><div class="ic"><svg class="i" aria-hidden="true"><use href="#i-gift"/></svg></div><h3>Gift tracker</h3><p>Remember every gift card you give — who, what and when — so you never repeat a gift.</p></div>
       <div class="feature reveal"><div class="ic"><svg class="i" aria-hidden="true"><use href="#i-calendar"/></svg></div><h3>Monthly report</h3><p>What you spent, your top store, and which cards expire next month.</p></div>
       <div class="feature reveal"><div class="ic"><svg class="i" aria-hidden="true"><use href="#i-palette"/></svg></div><h3>Make it yours</h3><p>Card colors and themes — Birthday, Holiday, Galaxy, Gold and more. Kids love it.</p></div>
+      <div class="feature reveal"><div class="ic"><svg class="i" aria-hidden="true"><path d="M7 20h10"/><path d="M10 20c5.5-2.5.8-6.4 3-10"/><path d="M9.5 9.4c1.1.8 1.8 2.2 2.3 3.7-2 .4-3.5.4-4.8-.3-1.2-.6-2.3-1.9-3-4.2 2.8-.5 4.4 0 5.5.8z"/><path d="M14.1 6a7 7 0 0 0-1.1 4c1.9-.1 3.3-.6 4.3-1.4 1-1 1.6-2.3 1.7-4.6-2.7.1-4 1-4.9 2z"/></svg></div><h3>Learn to invest</h3><p>See how saved money can grow over time — with a simple calculator and kid-friendly lessons.</p></div>
     </div>
   </div>
 </section>
